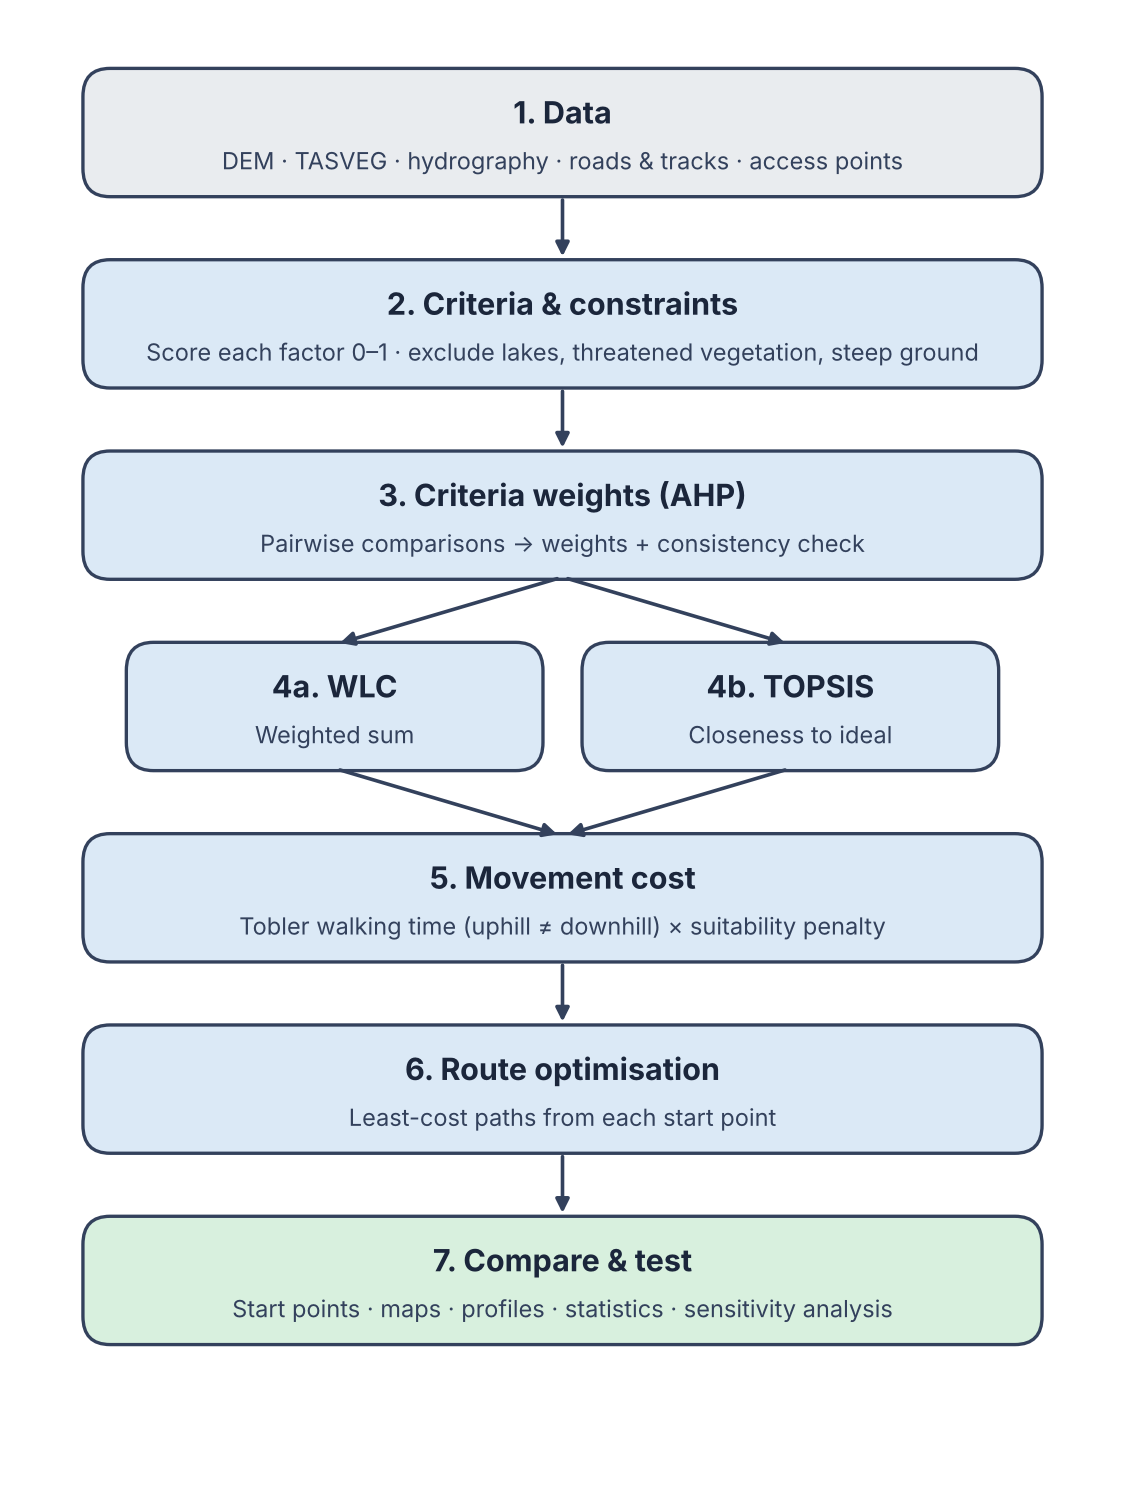
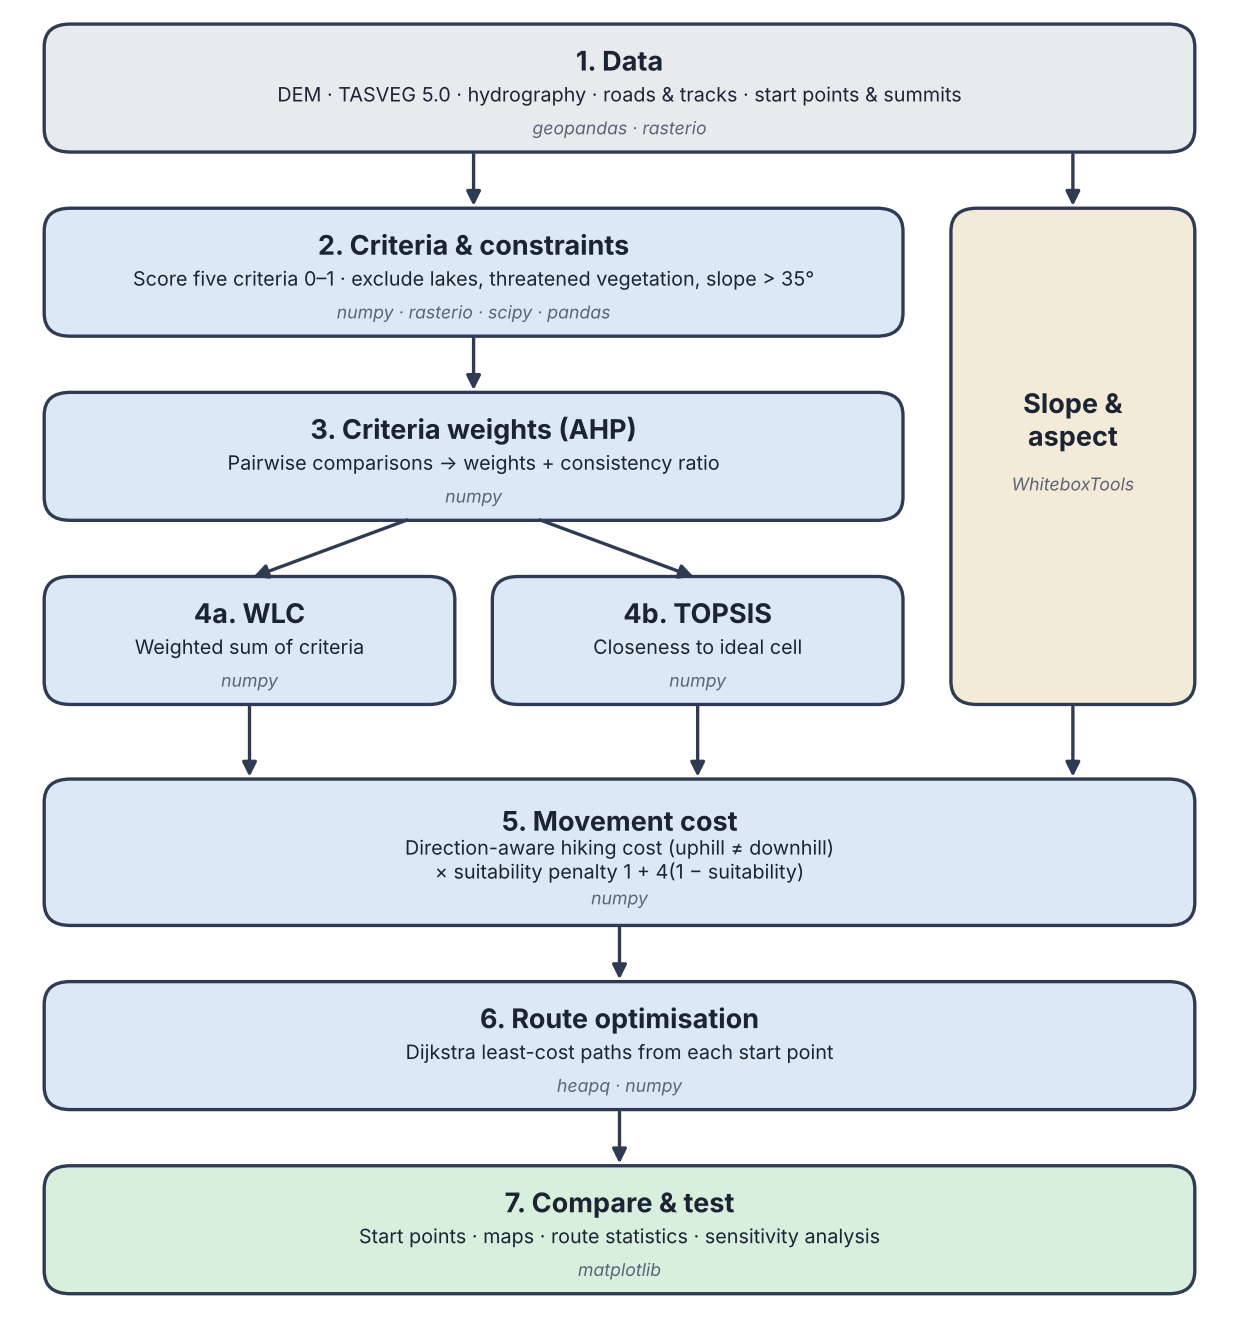
Jupyter Book files created
Created the items needed for a Jupyter Book

diff --git a/methods.md b/methods.md
@@ -1,0 +1,180 @@
+# Methods
+
+## Study area
+
+![Topographic map of the Cheyne Range study area](CheyneRangetopo.png)
+
+*Figure 1: Topographic map of the Cheyne Range and surrounds. Base map: LISTmap, © State of Tasmania (CC BY 3.0 AU).*
+
+## Data sources
+
+All datasets were clipped to a 17.5 × 13.5 km study area (the start, end and summit points plus a 1 km buffer), projected to GDA2020 / MGA Zone 55 (EPSG:7855) and converted to a common 10 m grid.
+
+| Dataset | Source | Type / resolution | Used for |
+|---|---|---|---|
+| Tasmania Statewide 2 m Digital Elevation Model | Mineral Resources Tasmania / Land Tasmania, via theLIST | Raster, 2 m (resampled to 10 m by cell averaging) | Slope criterion and constraint, movement cost, elevation profiles |
+| TASVEG 5.0 vegetation communities | Tasmanian Vegetation Monitoring and Mapping Program, NRE Tas, via theLIST open data service | Vector polygons, 1:25 000 nominal scale | Vegetation criterion, threatened community constraints, buttongrass (wet ground) |
+| LIST Hydrographic Lines | Land Tasmania, via theLIST open data service | Vector lines | Distance-to-streams criterion |
+| LIST Hydrographic Areas | Land Tasmania, via theLIST open data service | Vector polygons | Lakes and tarns (constraint), swamps and wet areas (wetland criterion), wide rivers (streams criterion) |
+| LIST Transport Segments | Land Tasmania, via theLIST open data service | Vector lines | Distance-to-access criterion (roads and walking tracks) |
+| Start/end access points and summits | Created by the authors in ArcGIS Pro from road ends, track heads and named peaks | Vector points | Route start, end and waypoints |
+
+Threatened vegetation communities were identified by matching TASVEG 5.0 communities against Schedule 3A of the *Nature Conservation Act 2002* (Tas).
+
+**Data limitations:**
+- Approximately 65% of the statewide DEM is derived from LiDAR. The remainder is interpolated from photogrammetric contours and spot heights, with an effective resolution of 10 m
+- TASVEG and threatened community mapping are indicative only and would require field verification.
+
+LIST data © State of Tasmania, licensed under Creative Commons Attribution 3.0 Australia.
+
+## Workflow overview
+The analysis was written in Python, with each step saved as a raster on a common 10 m grid so the next step can read it. The scripts and notebooks are in the GitHub repository.
+
+![Workflow flow chart](workflow_flowchart.png)
+
+*Figure 2: Overview of the analysis workflow, with the main Python libraries used at each step.*
+
+| Library | Used for |
+|---|---|
+| numpy | Array maths: criterion scores, AHP weights, WLC, TOPSIS and movement cost |
+| pandas | Combining the stream line and stream area layers |
+| geopandas | Reading and clipping the vector data (TASVEG, hydrography, transport, start points and summits) |
+| rasterio | Reading and writing rasters, rasterising vector layers onto the 10 m grid, converting points to grid cells |
+| scipy | Distance to streams and distance to access (`distance_transform_edt`) |
+| WhiteboxTools | Slope and aspect from the DEM |
+| heapq | Priority queue for Dijkstra's algorithm (Python standard library) |
+| matplotlib | Maps and figures |
+
+## Suitability criteria and constraints
+The criteria is scored 0 to 1 with 1 being ideal.
+
+- **Slope:** derived from the DEM starts at 1 up to 10 degrees then linearly falls to 0 at 30 degrees.
+- **Vegetation:** derived from TASVEG 5.0, this is scored by individual vegetation groups.
+  - Modified land: 1.0
+  - Dry Eucalypt Forest and woodland: 0.9
+  - Native Grassland: 0.8
+  - Other natural environments (rocks): 0.7
+  - Wet Eucalypt Forest, non-Eucalypt forest: 0.6
+  - Moorland, rushland, buttongrass: 0.5
+  - Highland treeless vegetation: 0.4
+  - Scrub: 0.3
+  - Wetland: 0.2
+  - Alpine Coniferous Heathland: 0.1
+- **Streams:** Derived from hydrographic lines and areas. 0 within 30m of water and rising to 1 at 100m.
+- **Wetland:** Derived from hydrographic areas (swamps, buttongrass).
+- **Access:** Derived from transport segments. 1 on a road or track.
+
+Constraints:
+- **Lakes and Tarns:** Track can not go over open water
+- **Pencil Pine and King Billy Pine:** Threatened Vegetation
+- **Sphagnum Peatland:** Threatened Vegetation
+- **Cushioned Moorland, Highland Poa Grassland, Subalpine rushland:** threatened Vegetation
+- **Steep Ground:** Slope > 35 degrees
+
+Each criterion is rescaled to 0–1 with a simple linear function. For example, slope and distance to streams:
+
+```python
+# Slope: 1 up to 10 degrees, falling to 0 at 30 degrees
+slope_score = np.clip((30 - slope) / (30 - 10), 0, 1)
+
+# Streams: 0 within 30 m of a stream, rising to 1 at 100 m
+stream_distance = distance_transform_edt(stream_cells == 0) * 10  # metres
+stream_score = np.clip((stream_distance - 30) / (100 - 30), 0, 1)
+```
+
+`np.clip` keeps the scores between 0 and 1, and `distance_transform_edt` gives the distance from every cell to the nearest stream cell.
+
+## Criteria weights (AHP)
+The comparison matrix we chose to use is AHP. This uses a table with all the criteria ranked against each other on a scale of 1-9. It describes how much more important a row criterion is than the column criterion on Saaty's Scale. On the scale 1 means equal, 3 is moderate and 5 is strong. The scale goes up to 9 which is extreme but none of our criteria needs to be that strong over another. For example, Slope vs. Access, Slope is given a 5 over access because access is only a convenience while slope decides sustainability as well as how well the trail can be walked.
+The script then takes this table and scales it to sum to 1.
+
+- Slope: 0.407
+- Vegetation: 0.249
+- Streams: 0.143
+- Wetland: 0.143
+- Access: 0.059
+
+| Criterion | Slope | Vegetation | Streams | Wetland | Access | **Weight** |
+|---|:---:|:---:|:---:|:---:|:---:|:---:|
+| **Slope** | 1 | 2 | 3 | 3 | 5 | **0.407** |
+| **Vegetation** | 1/2 | 1 | 2 | 2 | 4 | **0.249** |
+| **Streams** | 1/3 | 1/2 | 1 | 1 | 3 | **0.143** |
+| **Wetland** | 1/3 | 1/2 | 1 | 1 | 3 | **0.143** |
+| **Access** | 1/5 | 1/4 | 1/3 | 1/3 | 1 | **0.059** |
+
+The weights are the principal eigenvector of the comparison matrix, scaled to sum to 1. The consistency ratio checks that the comparisons do not contradict each other and should be below 0.10:
+
+```python
+values, vectors = np.linalg.eig(AHP)
+i = np.argmax(values.real)
+weights = vectors[:, i].real
+weights = weights / weights.sum()
+
+consistency_index = (values[i].real - n) / (n - 1)
+consistency_ratio = consistency_index / 1.12  # 1.12 = random index for 5 criteria
+```
+
+The consistency ratio of our matrix is 0.013.
+
+## Suitability models (WLC and TOPSIS)
+Two decision rules were used to combine the five standardised criteria into two suitability rasters. Both use the same criteria and the same AHP weights, this is so that any difference is because of the rules alone.
+
+### Weighted Linear Combination (WLC)
+This is the most widely used decision rule in GIS-based multicriteria analysis, with each cell's suitability being the sum of its criterion scores multiplied by their weights (Malczewski, 2006):
+
+$$S = \sum_{i=1}^{n} w_i x_i$$
+
+where $x_i$ is the score of criterion $i$ (0–1) and $w_i$ is its AHP weight. Because the weights sum to 1, the result is also between 0 and 1. WLC is compensatory: a high score in one criterion can make up for a low score in another, so a gentle slope can partly offset poor vegetation.
+
+### TOPSIS
+This ranks each option by how close each cell is to an ideal solution and how far it is from a worst-case solution (Hwang & Yoon, 1981). Each criterion is first multiplied by its weight ($v_i = w_i x_i$). The ideal point ($v_i^+$) takes the best value of every weighted criterion, and the anti-ideal point ($v_i^-$) takes the worst. For each cell, the distances to both are:
+
+$$D^+ = \sqrt{\sum_{i=1}^{n} (v_i - v_i^+)^2} \qquad D^- = \sqrt{\sum_{i=1}^{n} (v_i - v_i^-)^2}$$
+
+and suitability is the relative closeness to the ideal:
+
+$$C = \frac{D^-}{D^+ + D^-}$$
+
+$C$ is 1 for a cell that matches the ideal on every criterion and 0 for a cell that matches the worst case. Unlike WLC, a cell needs to be good across all criteria at once to score highly. Our criteria were already scaled 0–1, so no extra normalisation was needed, and the ideal and anti-ideal values were taken only from cells outside the constraints.
+
+## Movement cost
+
+movement cost was from a simple hiking cost fourmula where slope cost was based on the degrees*0.1 where slope was positive eg. 30 degrees has a cost weight of 0.3 and for negitive slopes the cost was assigned degrees*0.01 which makes downhill impact walking speed/effort less
+
+importanly these implement a direction modifier which calculates the walkers apparrent slope rather then the global slope values, making this a anisotropic cost surface.
+
+```python
+# -1 when walking straight uphill, 1 when walking straight downhill
+directional_modifier = np.cos(np.radians(angle_diff))
+
+if directional_modifier < 0:  # uphill
+    cost = 1.0 + (slope_deg * 0.1 * np.abs(directional_modifier))
+else:  # downhill or across the slope
+    cost = 1.0 + (slope_deg * 0.02 * (1 - directional_modifier))
+```
+
+`angle_diff` is the angle between the direction of travel and the aspect (downhill direction) of the cell.
+
+## Path optimisation
+
+for path optimisation Dijkstra algorithm was used, this finds the shortest path by slowly extending the, search and prioritising the least cost path to each node
+
+due to the limitations of python and data storage the anisotropic cost surface does not exist in iteslf instead it is defined in the least cost path algorithm process, where the pathfinding can input the direction and calculate the cost.
+
+The key step is where each move to a neighbouring cell is costed. Constraint cells are skipped, and the walking cost is increased on less suitable ground:
+
+```python
+if np.isnan(suitability_value):  # constraint cells cannot be entered
+    continue
+
+edge_cost = calculate_directional_cost(cell_slope, cell_aspect, move_dir) * dist_factor
+totalcost = edge_cost * (1 + K * (1 - suitability_value))  # K = 4
+
+new_cost = curr_cost + totalcost
+if new_cost < best.get((nr, nc), float('inf')):
+    best[(nr, nc)] = new_cost
+    came_from[(nr, nc)] = (r, c)
+    heapq.heappush(queue, (new_cost, nr, nc))
+```
+
+With K = 4, a step on the most suitable ground costs its walking cost only, while a step on the least suitable ground costs five times as much. `heapq` always expands the cheapest cell next, and `came_from` is used to trace the route back once the end point is reached.

diff --git a/conclusion.md b/conclusion.md
@@ -1,0 +1,30 @@
+# Conclusion
+
+
+## References
+
+Dixon, G., Hawes, M., & McPherson, G. (2004). Monitoring and modelling walking track impacts in the Tasmanian Wilderness World Heritage Area, Australia. *Journal of Environmental Management, 71*(4), 305–319.
+
+Hwang, C. L., & Yoon, K. (1981). *Multiple attribute decision making: Methods and applications*. Springer.
+
+Malczewski, J. (2006). GIS-based multicriteria decision analysis: A survey of the literature. *International Journal of Geographical Information Science, 20*(7), 703–726.
+
+Olive, N. D., & Marion, J. L. (2009). The influence of use-related, environmental, and managerial factors on soil loss from recreational trails. *Journal of Environmental Management, 90*(3), 1483–1493.
+
+Rees, W. G. (2004). Least-cost paths in mountainous terrain. *Computers & Geosciences, 30*(3), 203–209.
+
+Saaty, T. L. (1980). *The analytic hierarchy process*. McGraw-Hill.
+
+Whinam, J., & Chilcott, N. M. (2003). Impacts after four years of experimental trampling on alpine/sub-alpine environments in western Tasmania. *Journal of Environmental Management, 67*(4), 339–351.
+
+### Data sources
+
+Land Tasmania. (2026). *LIST Hydrographic Areas* [Data set]. Department of Natural Resources and Environment Tasmania, theLIST. Retrieved October 2, 2026. © State of Tasmania, CC BY 3.0 AU.
+
+Land Tasmania. (2026). *LIST Hydrographic Lines* [Data set]. Department of Natural Resources and Environment Tasmania, theLIST. Retrieved October 2, 2026. © State of Tasmania, CC BY 3.0 AU.
+
+Land Tasmania. (2026). *LIST Transport Segments* [Data set]. Department of Natural Resources and Environment Tasmania, theLIST. Retrieved October 2, 2026. © State of Tasmania, CC BY 3.0 AU.
+
+Land Tasmania. (2026). *Tasmania 1 m Digital Elevation Model* [Data set]. theLIST. © State of Tasmania, CC BY 3.0 AU. [Check exact name and source]
+
+Tasmanian Vegetation Monitoring and Mapping Program. (2025). *TASVEG 5.0* [Data set]. Department of Natural Resources and Environment Tasmania, theLIST. Retrieved October 2, 2026. CC BY 3.0 AU.

diff --git a/index.md b/index.md
@@ -1,0 +1,24 @@
+# Introduction
+
+KGG375 GIS Project (AT3), University of Tasmania, 2026
+
+## Motivation
+Tasmania is filled with beautiful scenery an untouched wilderness. This includes the Cheyne Range, located in the Central Highlands, it includes some of Tasmania's highest peaks. This is a well known walking track but is currently entirely off-track making it only for experienced bush-walkers.
+
+```{image} Cheyne Range.jpg
+:alt: Walkers on the Cheyne Range
+```
+
+*Walkers on the Cheyne Range. Photo: © Louise Fairfax.*
+
+## Background
+Off-track walking in places like the Cheyne Range creates informal trails called "pads". These tend to widen and erode over time especially on fragile alpine vegetation. A planned hardened track can protect the surrounding landscape. Deciding where to put this track requires the weighing of many environmental factors at once such as slope and vegetation type. MCDA is currently the standard way to combine environmental factors into a suitability map in which we will be using WLC and TOPSIS. To weight the criteria we used AHP.
+
+## Objectives
+The aim of this project is to model and compare optimal trails that go through the Cheyne range which weighs all the environmental factors to find the best fit.
+
+Objectives:
+1. Develop and compare two suitability models for a walking track using different decision rules (WLC and TOPSIS)
+2. Implement a movement cost model that accounts for the effort of uphill and downhill walking.
+3. Generate and compare routes from different start points using a least-cost path algorithm.
+4. Compare and visualise the resulting routes using maps and elevation profiles.

diff --git a/discussion.md b/discussion.md
@@ -1,0 +1,15 @@
+# Discussion
+
+## Main hurdles and problems
+
+The main hurdle on the criteria and suitability side of the project was deciding what to use and how it should be weighted. This came from looking to past reasearch and finding threatened vegetation and past modelling / pathfinding literature.
+
+## Alternative approaches
+Alternative approaches include using different criteria and contraints. We chose the ones that we thought to be most important and that were backed up by literature. It can be made more comprehensive if we added more criteria into the suitability.
+
+Another approach could also be to use a different weighting method. In this project we chose to use AHP as it allows the criteria to be ranked against eachother and then the weights are pulled from that. The issue with this is that it is still subjective and requires the criteria to be ranked apprprialty.
+
+The way the suitability score is calculated can also be changed. In this project we chose to make two rasters using WLC and TOPSIS. This was because these two methods are what we are familiar with. A different method to producing a suitability raster could be used which would handle the weights differently and produce an alternative raster.
+
+## Limitations
+

diff --git a/results.md b/results.md
@@ -1,0 +1,21 @@
+# Results
+
+## Suitability surfaces
+
+![WLC and TOPSIS suitability maps](suitability_maps.png)
+
+*Figure 3: Suitability for a walking track under WLC (left) and TOPSIS (right). White areas are excluded by constraints.*
+
+## Routes
+
+![Topographic map of the Cheyne Range study area](map_with_table.png)
+
+*Figure 1: Topographic map with routes shaded by cost. Base map: LISTmap, © State of Tasmania (CC BY 3.0 AU).*
+
+![Routes over the suitability surface](routes_suitability.png)
+
+*Figure 5: Least-cost routes from each start point over the suitability surface. White areas are excluded by constraints.*
+
+![Close-up of the routes near Mount Gell](routes_closeup.png)
+
+*Figure 6: Close-up of where the routes meet near Mount Gell, passing between excluded (white) areas.*
